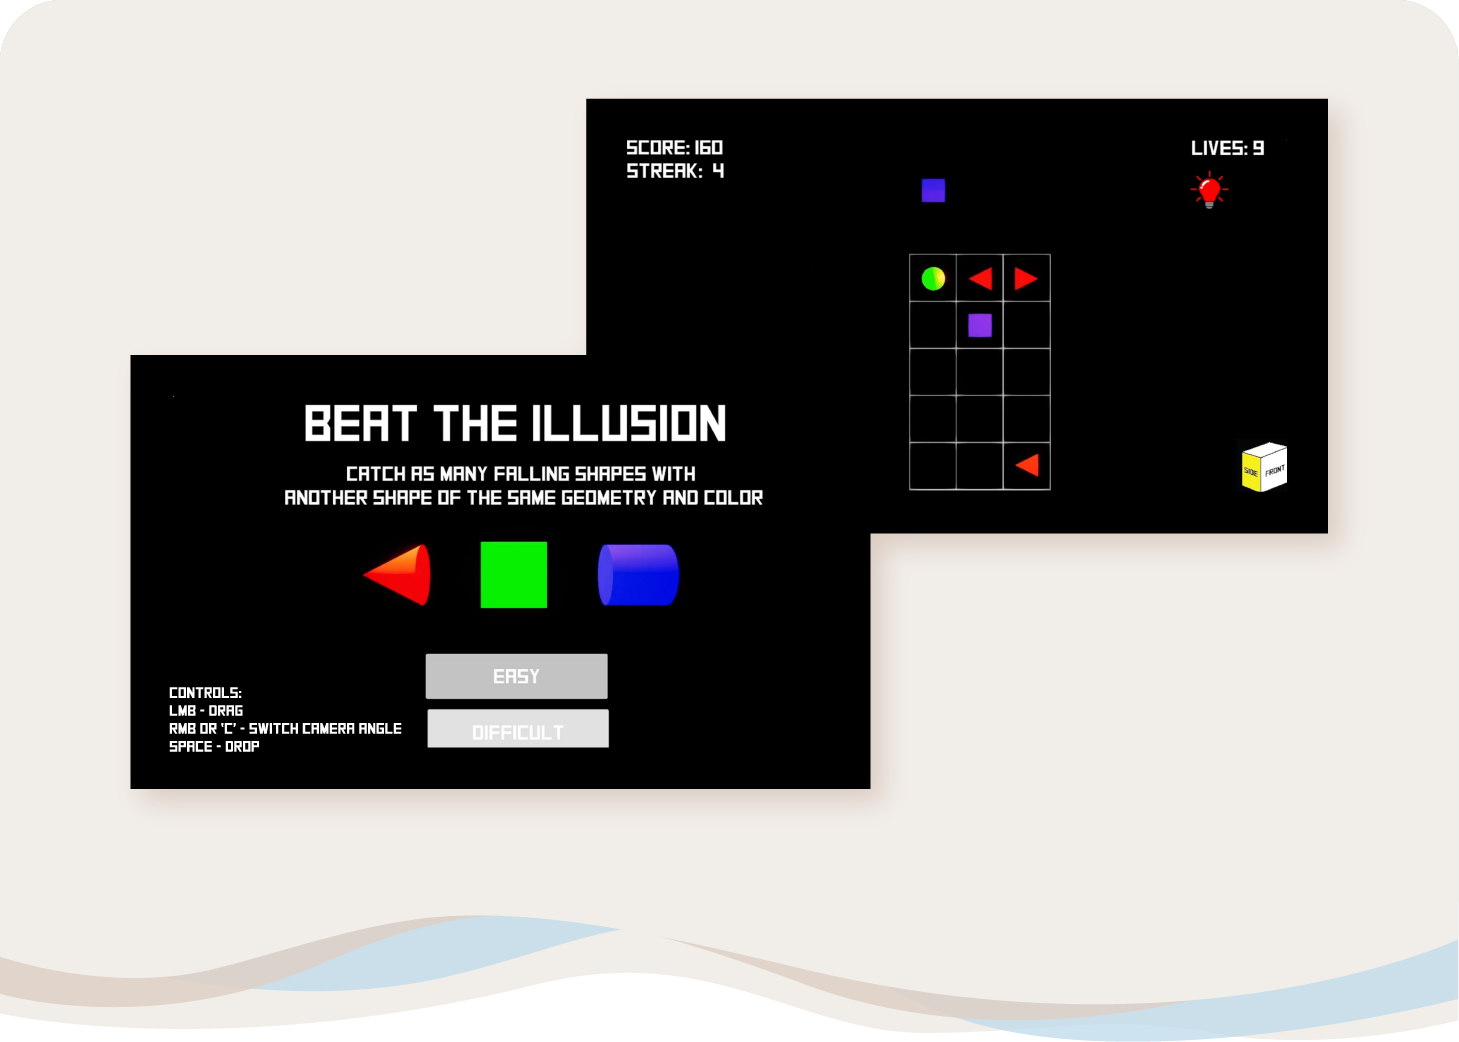
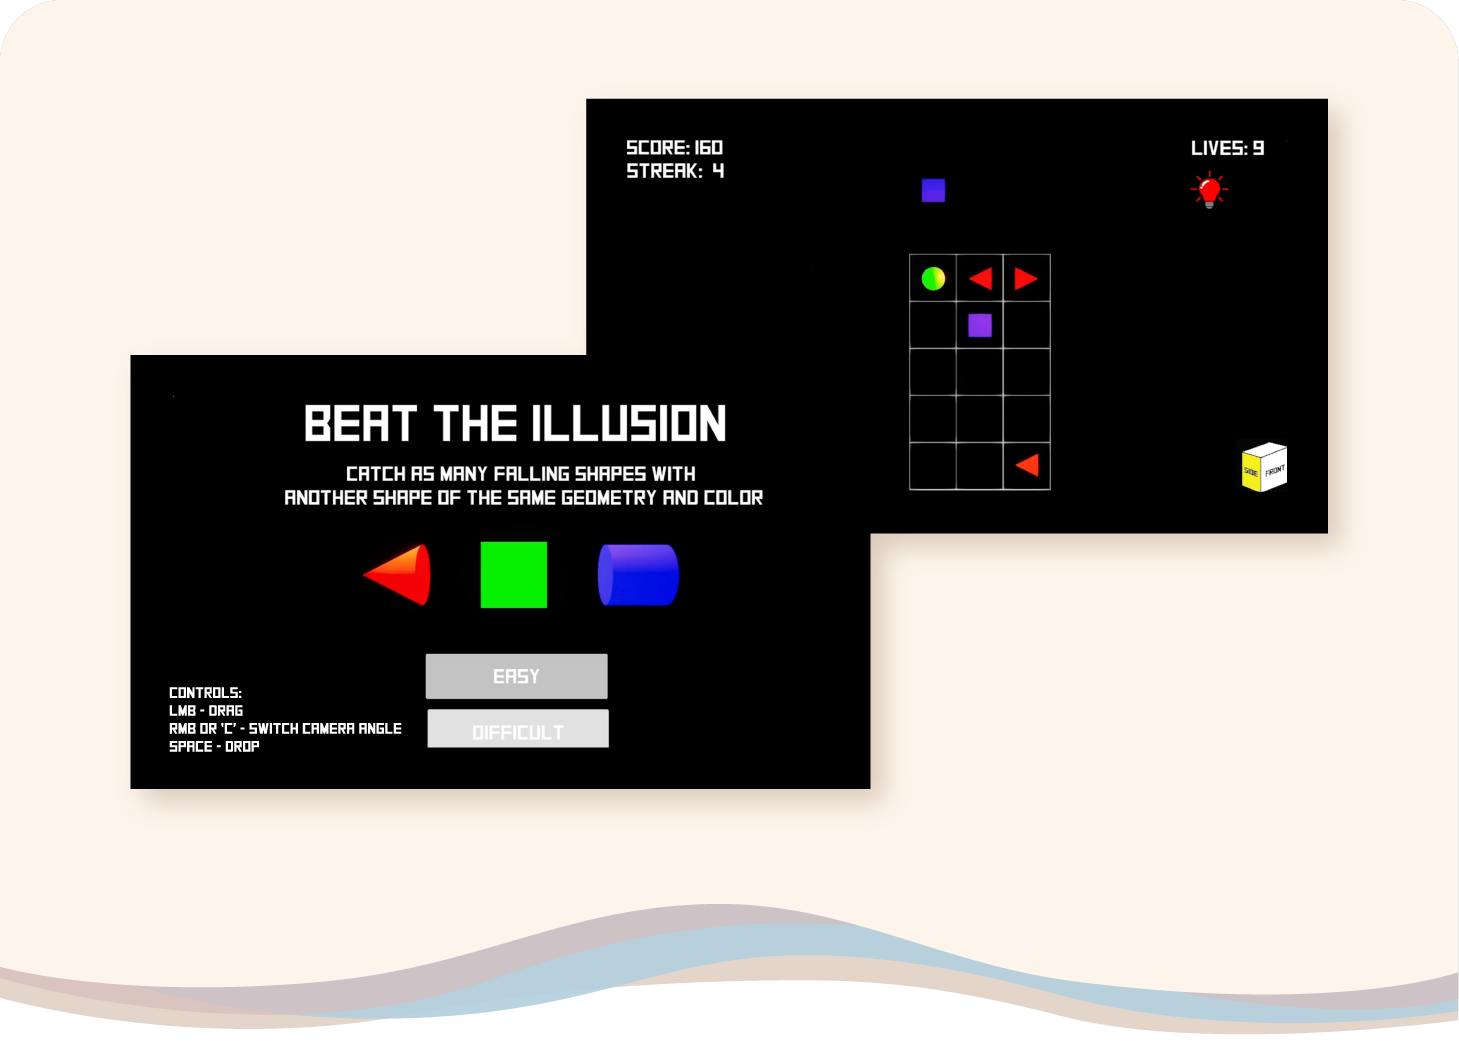
update card colors

Changed region(s): [[0.0, 0.8599, 1.0, 1.0]]

diff --git a/src/components/Navbar.js b/src/components/Navbar.js
@@ -5,10 +5,6 @@ const Navbar = () => {
     return (
         <nav class="absolute right-0 px-8">
             <div class="max-w-screen-xl flex flex-wrap items-center justify-between mx-auto p-5">
-                {/* <a href="https://flowbite.com/" class="flex items-center">
-                    <img src="https://flowbite.com/docs/images/logo.svg" class="h-8 mr-3" alt="Flowbite Logo" />
-                    <span class="self-center text-2xl font-semibold whitespace-nowrap dark:text-white">Flowbite</span>
-                </a> */}
                 <button data-collapse-toggle="navbar-default" type="button" class="inline-flex items-center p-2 w-10 h-10 justify-center text-sm text-gray-500 rounded-lg md:hidden hover:bg-gray-100 focus:outline-none focus:ring-2 focus:ring-gray-200 dark:text-gray-400 dark:hover:bg-gray-700 dark:focus:ring-gray-600" aria-controls="navbar-default" aria-expanded="false">
                     <span class="sr-only">Open main menu</span>
                     <svg class="w-5 h-5" aria-hidden="true" xmlns="http://www.w3.org/2000/svg" fill="none" viewBox="0 0 17 14">
